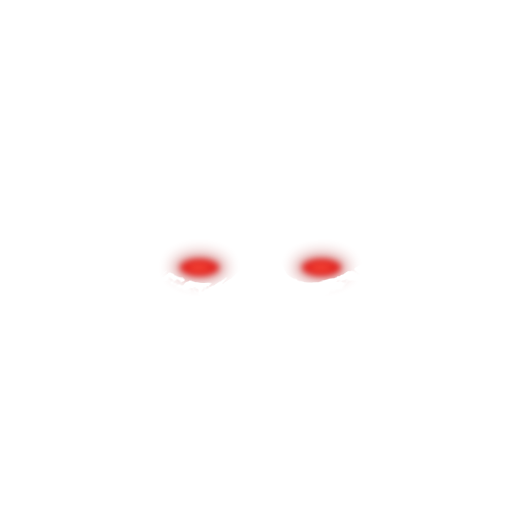
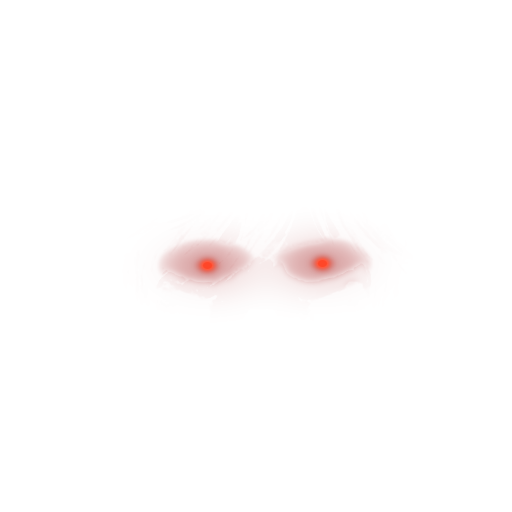
first try skull animation 5

Changed region(s): [[0.5312, 0.4375, 0.7188, 0.5625], [0.3125, 0.4688, 0.5, 0.5625]]

diff --git a/src/styles.css b/src/styles.css
@@ -590,9 +590,11 @@ input:focus, .select:focus { border-color: #8b0000; box-shadow: 0 0 0 3px rgba(1
   box-shadow: 0 0 30px rgba(139,0,0,.55), 0 0 80px rgba(139,0,0,.25); transition: box-shadow 1.4s ease; }
 .skull.is-speaking .skull-frame { box-shadow: 0 0 40px rgba(255,20,20,.7), 0 0 110px rgba(220,20,60,.4); }
 .skull-layer { position: absolute; inset: 0; width: 100%; height: 100%; display: block; user-select: none; pointer-events: none; }
-.skull-eyes { opacity: 0; transition: opacity 1.6s ease; }
-.skull.is-speaking .skull-eyes { opacity: 1; animation: skullEyePulse 2.4s ease-in-out infinite; }
-@keyframes skullEyePulse { 0%,100% { filter: brightness(.9); } 50% { filter: brightness(1.35); } }
+.skull-eyes { opacity: 0; mix-blend-mode: screen; filter: brightness(.6); transition: opacity .9s cubic-bezier(.4,0,.2,1), filter .9s ease; }
+.skull.is-speaking .skull-eyes { opacity: 1; filter: brightness(1); animation: skullEyeIgnite .9s ease-out 1, skullEyePulse 2.6s ease-in-out .9s infinite; }
+/* ignite: ember flickers on, then settles into a slow menacing pulse */
+@keyframes skullEyeIgnite { 0% { opacity: 0; } 18% { opacity: .55; } 28% { opacity: .15; } 50% { opacity: .9; } 62% { opacity: .5; } 100% { opacity: 1; } }
+@keyframes skullEyePulse { 0%,100% { opacity: .85; filter: brightness(.9); } 45% { opacity: 1; filter: brightness(1.35); } 50% { opacity: .92; filter: brightness(1.15); } 55% { opacity: 1; filter: brightness(1.4); } }
 .skull:not(.is-speaking) .skull-frame { animation: skullBreathe 5s ease-in-out infinite; }
 @keyframes skullBreathe { 0%,100% { transform: translateY(0); } 50% { transform: translateY(-3px); } }
 @media (max-width: 860px) { .skull { align-items: center; } .skull-frame { width: 210px; height: 210px; } }
